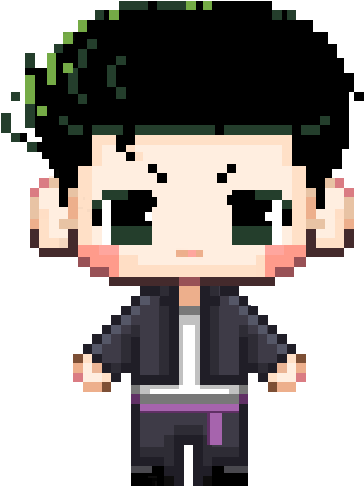
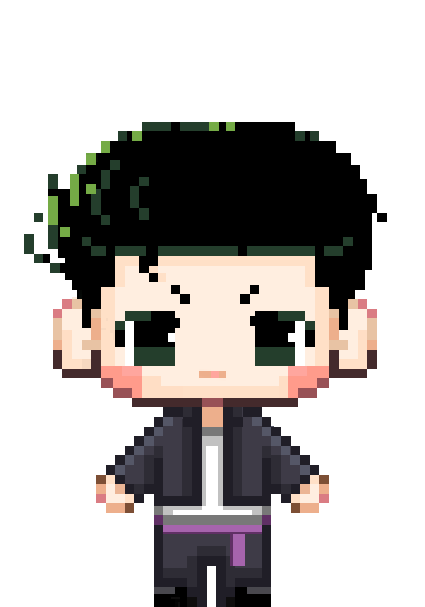
feat: 캔버스 크기 동일

diff --git a/src/components/candyGame.css b/src/components/candyGame.css
@@ -109,10 +109,7 @@
 .player {
   position: absolute;
   bottom: 8px;
-  width: 90px;
-  height: 178px;
-  object-fit: contain;
-  object-position: bottom center;
+  width: 110px;
   z-index: 5;
 }
 
